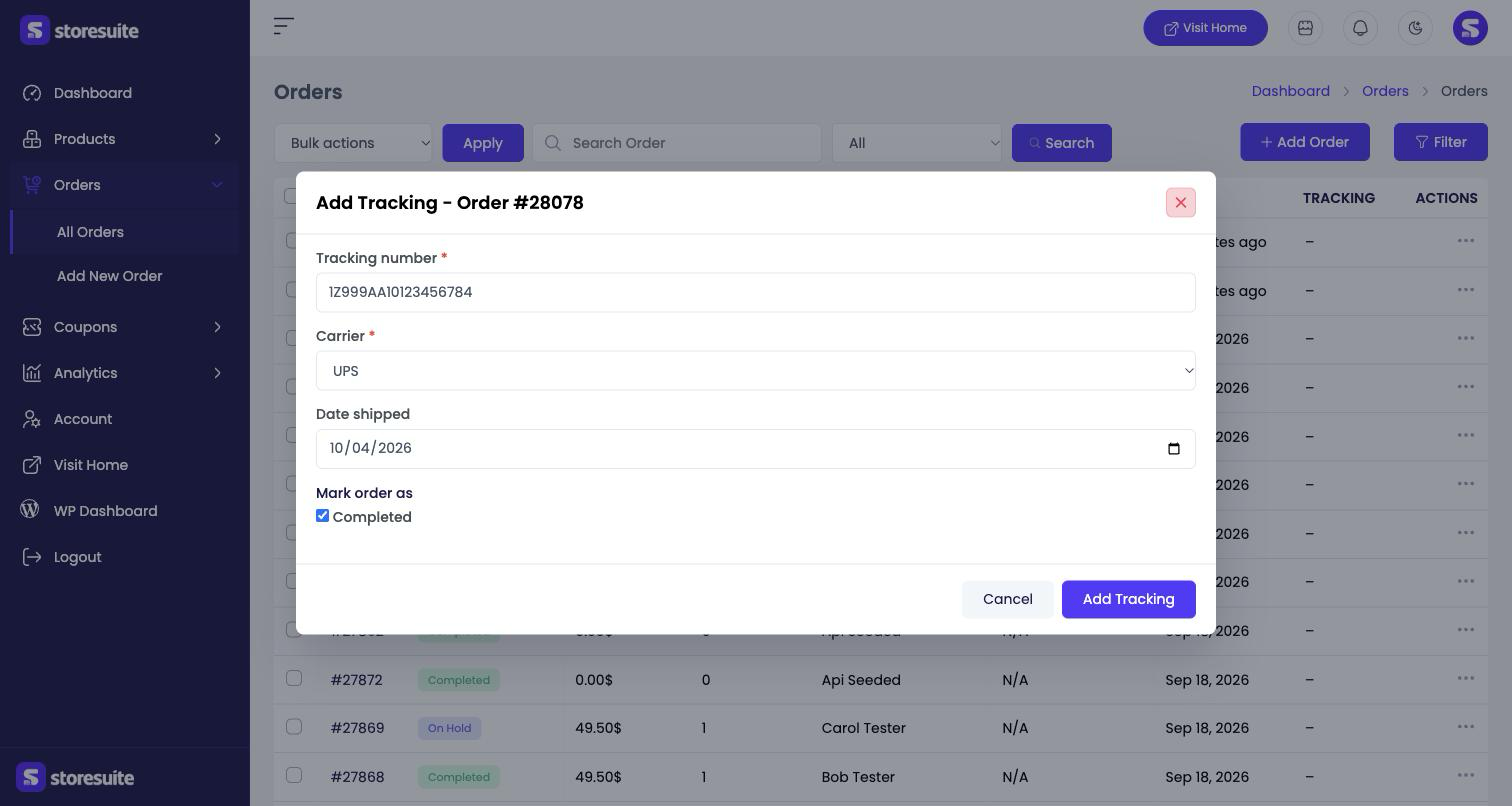
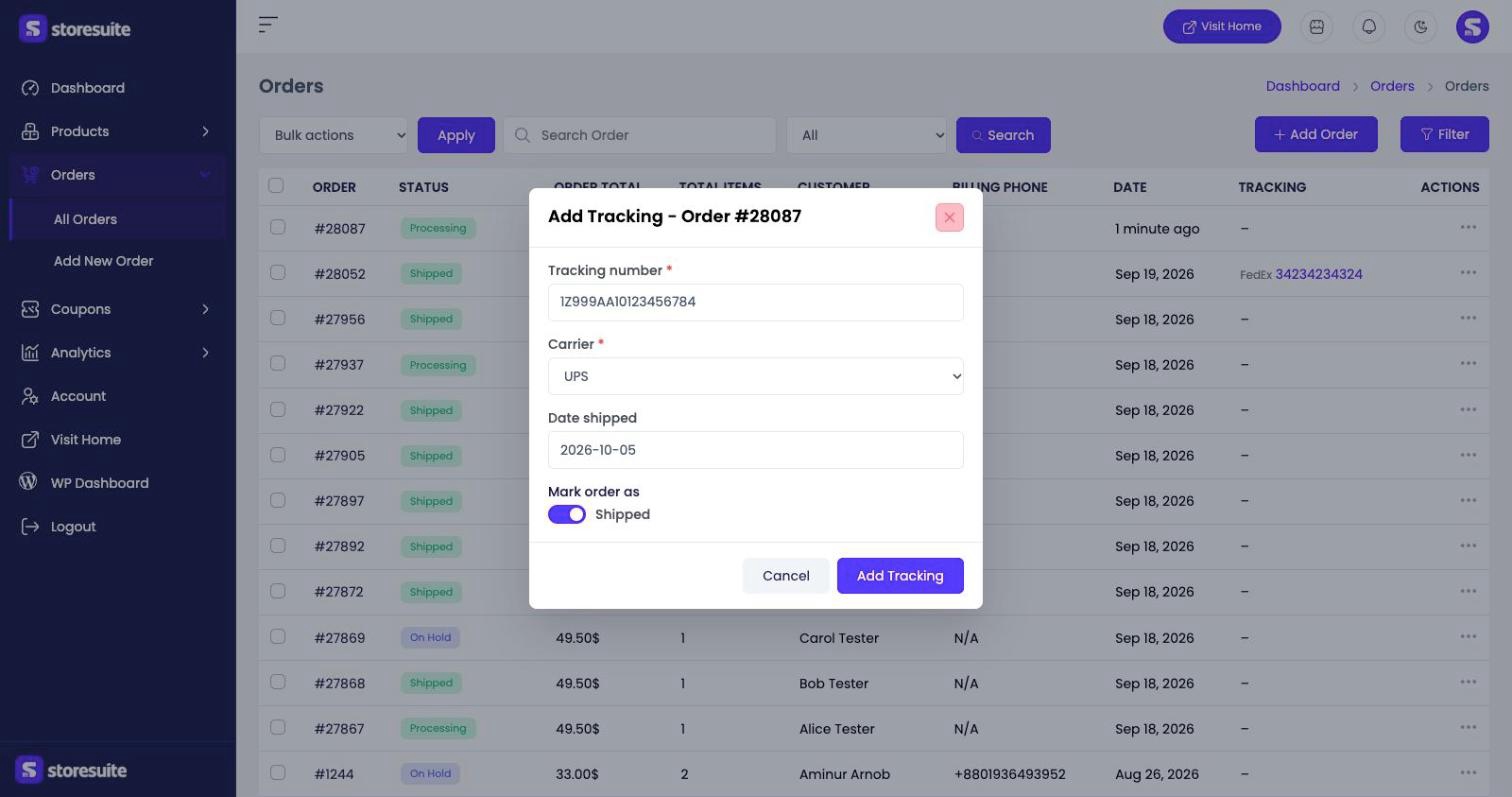
Restyle the add-tracking modal with the dashboard's own controls
The dialog is narrowed to the single-column quick-edit width, "Date
shipped" uses the same jQuery UI date picker as the order form instead of
the browser's native one, and "Mark order as" uses the dashboard's switch
style instead of bare checkboxes.

The Playwright page object clicks the switch label, since the checkbox is
now visually hidden, and the docs screenshot and field notes are updated.

diff --git a/assets/frontend/style.css b/assets/frontend/style.css
@@ -8358,9 +8358,9 @@ ul.storesuite-notifications-list {
 .storesuite-order-tracking-modal form {
   margin: 0;
 }
-/* Keeps the native calendar icon visible on the dark surface. */
-[data-theme="dark"] .storesuite-order-tracking-modal input[type="date"] {
-  color-scheme: dark;
+/* A short single-column form, so a narrower dialog than quick edit. */
+.storesuite-order-tracking-modal .storesuite-product-bulk-modal-dialog.storesuite-product-quick-edit-modal-dialog {
+  max-width: 480px;
 }
 .storesuite-tracking-mark-as {
   margin: 0;
@@ -8374,14 +8374,11 @@ ul.storesuite-notifications-list {
   font-size: 14px;
   font-weight: 500;
 }
-.storesuite-tracking-mark-as-option {
-  display: inline-flex;
-  align-items: center;
-  gap: 6px;
-  margin-right: 16px;
-  color: var(--storesuite-text-color);
-  font-weight: 400;
-  cursor: pointer;
+.storesuite-tracking-mark-as .storesuite-form-switch {
+  margin-bottom: 0;
+}
+.storesuite-tracking-mark-as .storesuite-form-switch + .storesuite-form-switch {
+  margin-top: 12px;
 }
 .storesuite-order-tracking-error {
   display: block;

diff --git a/tests/pw/tests/e2e/orders/orderTrackingPage.ts b/tests/pw/tests/e2e/orders/orderTrackingPage.ts
@@ -53,7 +53,11 @@ export class OrderTrackingPage {
 	async fill( trackingNumber: string, carrier: string, markAsShipped: boolean ): Promise< void > {
 		await this.modal.locator( '#storesuite-tracking-number' ).fill( trackingNumber );
 		await this.modal.locator( '#storesuite-tracking-provider' ).selectOption( carrier );
-		await this.modal.locator( '#storesuite-tracking-mark-shipped' ).setChecked( markAsShipped );
+		const markShipped = this.modal.locator( '#storesuite-tracking-mark-shipped' );
+		if ( ( await markShipped.isChecked() ) !== markAsShipped ) {
+			// The visual switch is the label; the checkbox itself is hidden.
+			await this.modal.locator( 'label[for="storesuite-tracking-mark-shipped"]' ).click();
+		}
 	}
 
 	async submit(): Promise< void > {

diff --git a/assets/frontend/order-tracking.js b/assets/frontend/order-tracking.js
@@ -24,6 +24,17 @@
 					'.storesuite-order-tracking-modal-cancel, .storesuite-order-tracking-modal-close',
 			} );
 
+			// The same date picker as the order form; order.js initialises it where it is loaded.
+			var $date = this.$form.find( '#storesuite-tracking-date' );
+			if ( $.fn.datepicker && ! $date.hasClass( 'hasDatepicker' ) ) {
+				$date.datepicker( {
+					defaultDate: '',
+					dateFormat: 'yy-mm-dd',
+					numberOfMonths: 1,
+					showButtonPanel: true,
+				} );
+			}
+
 			$( document )
 				.on(
 					'click',

diff --git a/templates/orders/tracking/modal.php b/templates/orders/tracking/modal.php
@@ -68,16 +68,16 @@ if ( ! defined( 'ABSPATH' ) ) {
 
 			<div class="storesuite-form-group storesuite-mb-20">
 				<label for="storesuite-tracking-date"><?php esc_html_e( 'Date shipped', 'storesuite' ); ?></label>
-				<input type="date" class="storesuite-form-control" id="storesuite-tracking-date" name="date_shipped" value="<?php echo esc_attr( $today ); ?>" data-default="<?php echo esc_attr( $today ); ?>" />
+				<input type="text" class="date-picker storesuite-form-control date-input" id="storesuite-tracking-date" name="date_shipped" maxlength="10" autocomplete="off" placeholder="<?php esc_attr_e( 'YYYY-MM-DD', 'storesuite' ); ?>" value="<?php echo esc_attr( $today ); ?>" data-default="<?php echo esc_attr( $today ); ?>" />
 			</div>
 
-			<fieldset class="storesuite-form-group storesuite-tracking-mark-as">
+			<fieldset class="storesuite-tracking-mark-as">
 				<legend><?php esc_html_e( 'Mark order as', 'storesuite' ); ?></legend>
 				<?php foreach ( $mark_as as $value => $option ) : ?>
-					<label class="storesuite-tracking-mark-as-option" for="storesuite-tracking-mark-<?php echo esc_attr( $value ); ?>">
-						<input type="checkbox" id="storesuite-tracking-mark-<?php echo esc_attr( $value ); ?>" name="mark_order_as" value="<?php echo esc_attr( $value ); ?>" <?php checked( $option['checked'] ); ?> data-default="<?php echo $option['checked'] ? '1' : '0'; ?>" />
-						<?php echo esc_html( $option['label'] ); ?>
-					</label>
+					<div class="storesuite-form-group storesuite-form-switch">
+						<input type="checkbox" class="storesuite-form-control" id="storesuite-tracking-mark-<?php echo esc_attr( $value ); ?>" name="mark_order_as" value="<?php echo esc_attr( $value ); ?>" <?php checked( $option['checked'] ); ?> data-default="<?php echo $option['checked'] ? '1' : '0'; ?>" />
+						<label for="storesuite-tracking-mark-<?php echo esc_attr( $value ); ?>"><?php echo esc_html( $option['label'] ); ?></label>
+					</div>
 				<?php endforeach; ?>
 			</fieldset>
 

diff --git a/includes/Integration/ShipmentTrackingIntegration.php b/includes/Integration/ShipmentTrackingIntegration.php
@@ -531,7 +531,7 @@ class ShipmentTrackingIntegration {
 		wp_register_script(
 			self::SCRIPT_HANDLE,
 			STORESUITE_PLUGIN_ASSET . '/frontend/order-tracking.js',
-			array( 'jquery', 'storesuite_script', 'storesuite_sweetalert2_script' ),
+			array( 'jquery', 'jquery-ui-datepicker', 'storesuite_script', 'storesuite_sweetalert2_script' ),
 			STORESUITE_PLUGIN_VERSION,
 			true
 		);

diff --git a/docs/plugin-docs/orders/orders.md b/docs/plugin-docs/orders/orders.md
@@ -135,8 +135,8 @@ To record a shipment, click **Add Tracking** and fill in the form:
 |-------|---------------|
 | **Tracking number** | The number from your shipping label |
 | **Carrier** | The company delivering the parcel. Only carriers enabled in the plugin's settings are listed |
-| **Date shipped** | Set to today; change it if the parcel left on another day |
-| **Mark order as** | Ticked by default, so saving also moves the order to **Completed**. Untick it to add tracking without changing the status |
+| **Date shipped** | Set to today; click the field to pick another day from the calendar if the parcel left earlier |
+| **Mark order as** | Switched on by default, so saving also moves the order to **Completed** (shown as **Shipped** if your store has renamed that status). Switch it off to add tracking without changing the status |
 
 Click **Add Tracking** to save. The customer receives the shipment email with their tracking details, exactly as if you had added it in the WordPress admin, and a note is added to the order.
 
